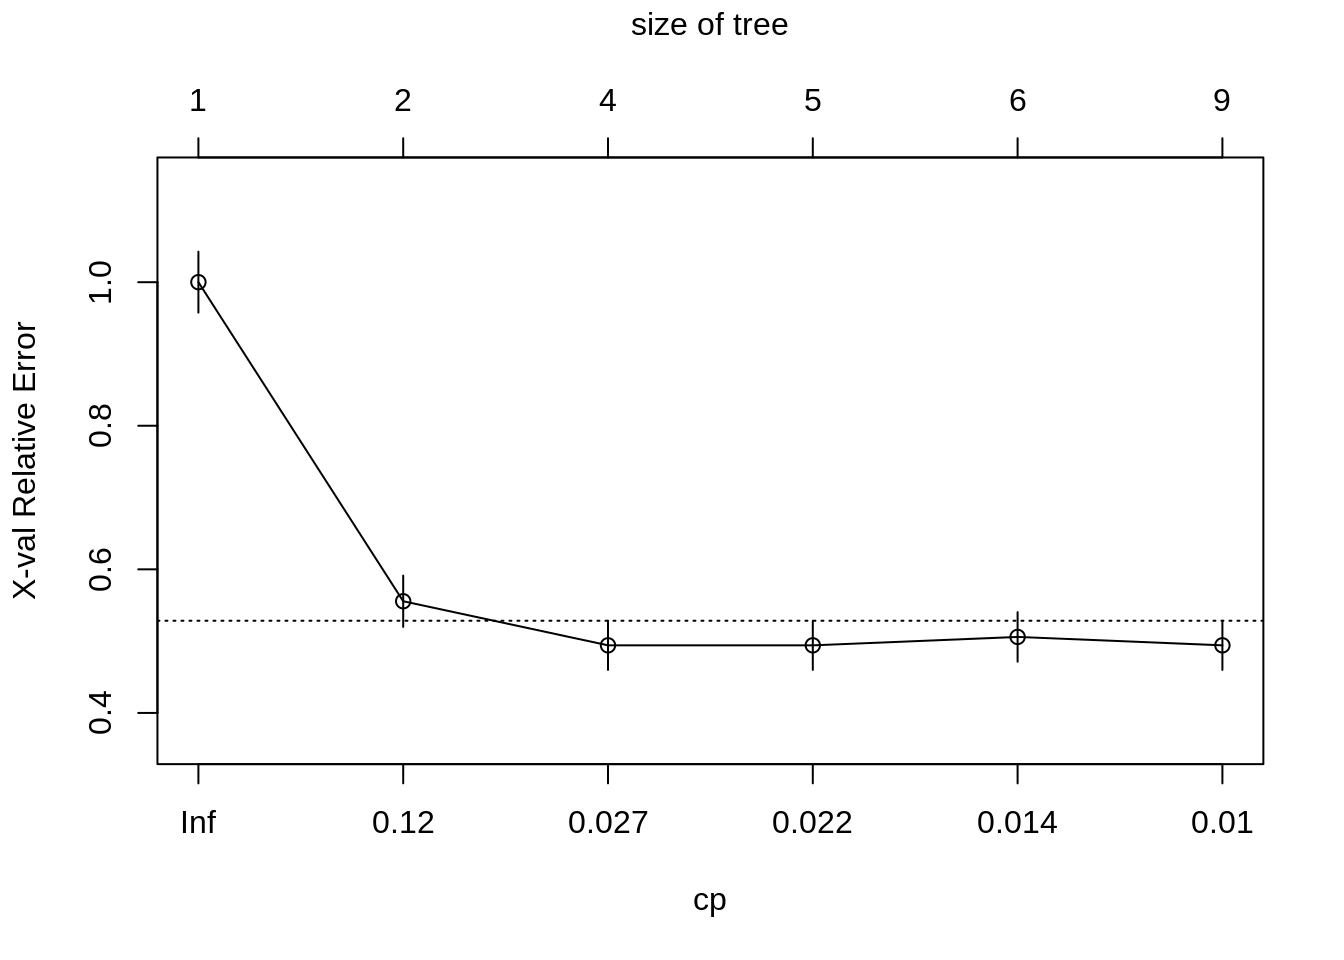
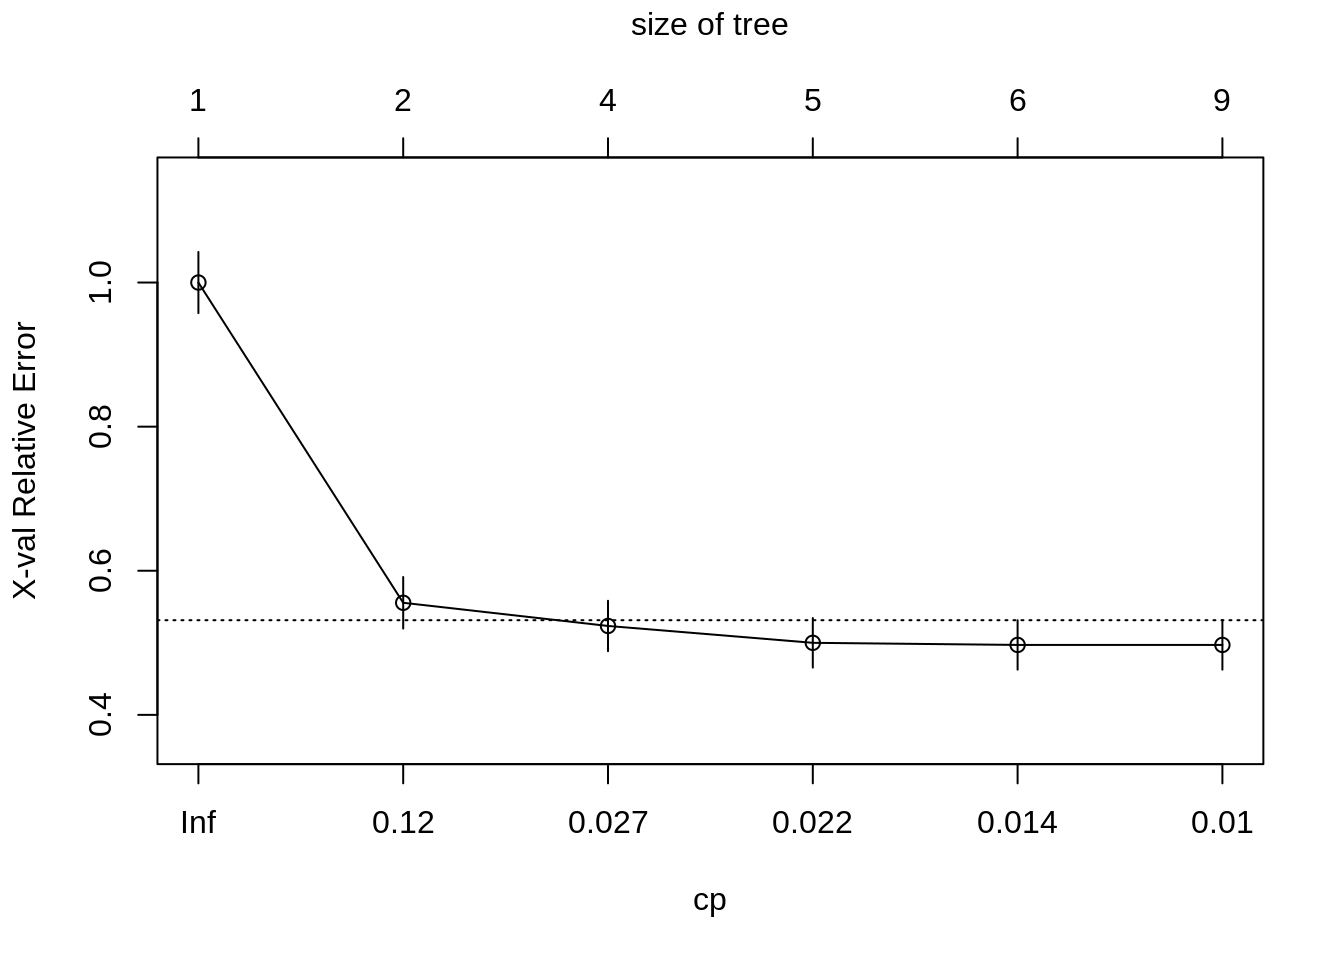
Deploy lebebr01/stat_thinking to github.com/lebebr01/stat_thinking.git:master

diff --git a/docs/classification.html b/docs/classification.html
@@ -324,10 +324,10 @@ titanic &lt;-<span class="st"> </span><span class="kw">bind_rows</span>(titanic_
 ##         CP nsplit rel error  xerror     xstd
 ## 1 0.444444      0   1.00000 1.00000 0.042446
 ## 2 0.030702      1   0.55556 0.55556 0.035750
-## 3 0.023392      3   0.49415 0.49415 0.034217
-## 4 0.020468      4   0.47076 0.49415 0.034217
-## 5 0.010234      5   0.45029 0.50585 0.034524
-## 6 0.010000      8   0.41813 0.49415 0.034217</code></pre>
+## 3 0.023392      3   0.49415 0.52339 0.034970
+## 4 0.020468      4   0.47076 0.50000 0.034372
+## 5 0.010234      5   0.45029 0.49708 0.034295
+## 6 0.010000      8   0.41813 0.49708 0.034295</code></pre>
 <div class="sourceCode"><pre class="sourceCode r"><code class="sourceCode r"><span class="kw">plotcp</span>(class_tree)</code></pre></div>
 <p><img src="05-classification_files/figure-html/unnamed-chunk-6-1.png" width="672" /></p>
 <div class="sourceCode"><pre class="sourceCode r"><code class="sourceCode r">prune_class_tree &lt;-<span class="st"> </span><span class="kw">prune</span>(class_tree, <span class="dt">cp =</span> .<span class="dv">02</span>)

diff --git a/docs/05-classification.md b/docs/05-classification.md
@@ -249,10 +249,10 @@ printcp(class_tree)
 ##         CP nsplit rel error  xerror     xstd
 ## 1 0.444444      0   1.00000 1.00000 0.042446
 ## 2 0.030702      1   0.55556 0.55556 0.035750
-## 3 0.023392      3   0.49415 0.49415 0.034217
-## 4 0.020468      4   0.47076 0.49415 0.034217
-## 5 0.010234      5   0.45029 0.50585 0.034524
-## 6 0.010000      8   0.41813 0.49415 0.034217
+## 3 0.023392      3   0.49415 0.52339 0.034970
+## 4 0.020468      4   0.47076 0.50000 0.034372
+## 5 0.010234      5   0.45029 0.49708 0.034295
+## 6 0.010000      8   0.41813 0.49708 0.034295
 ```
 
 ```r
